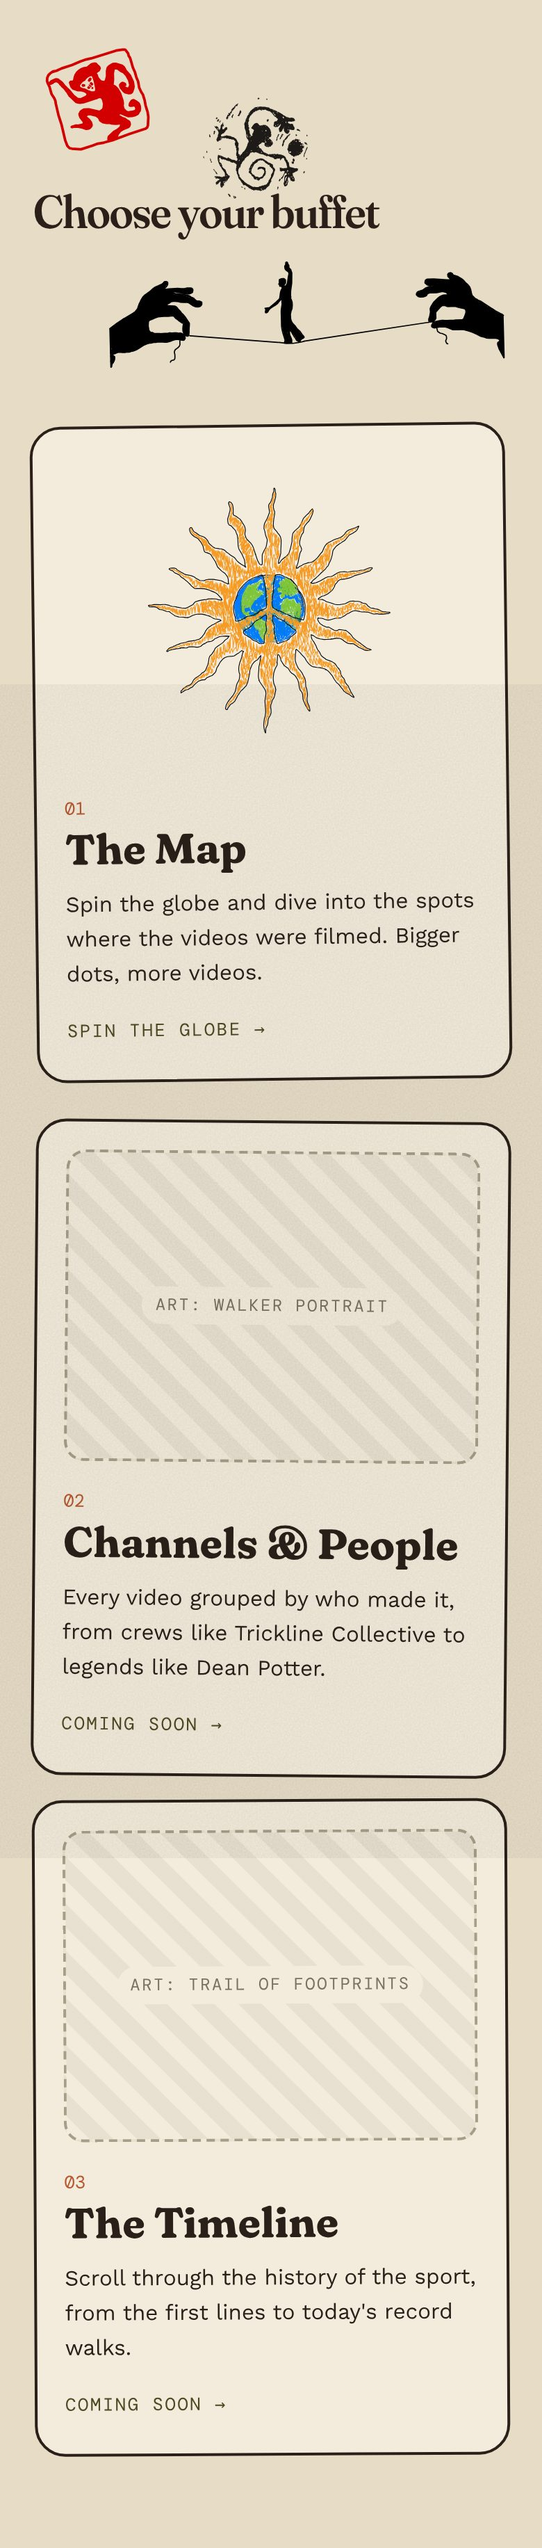
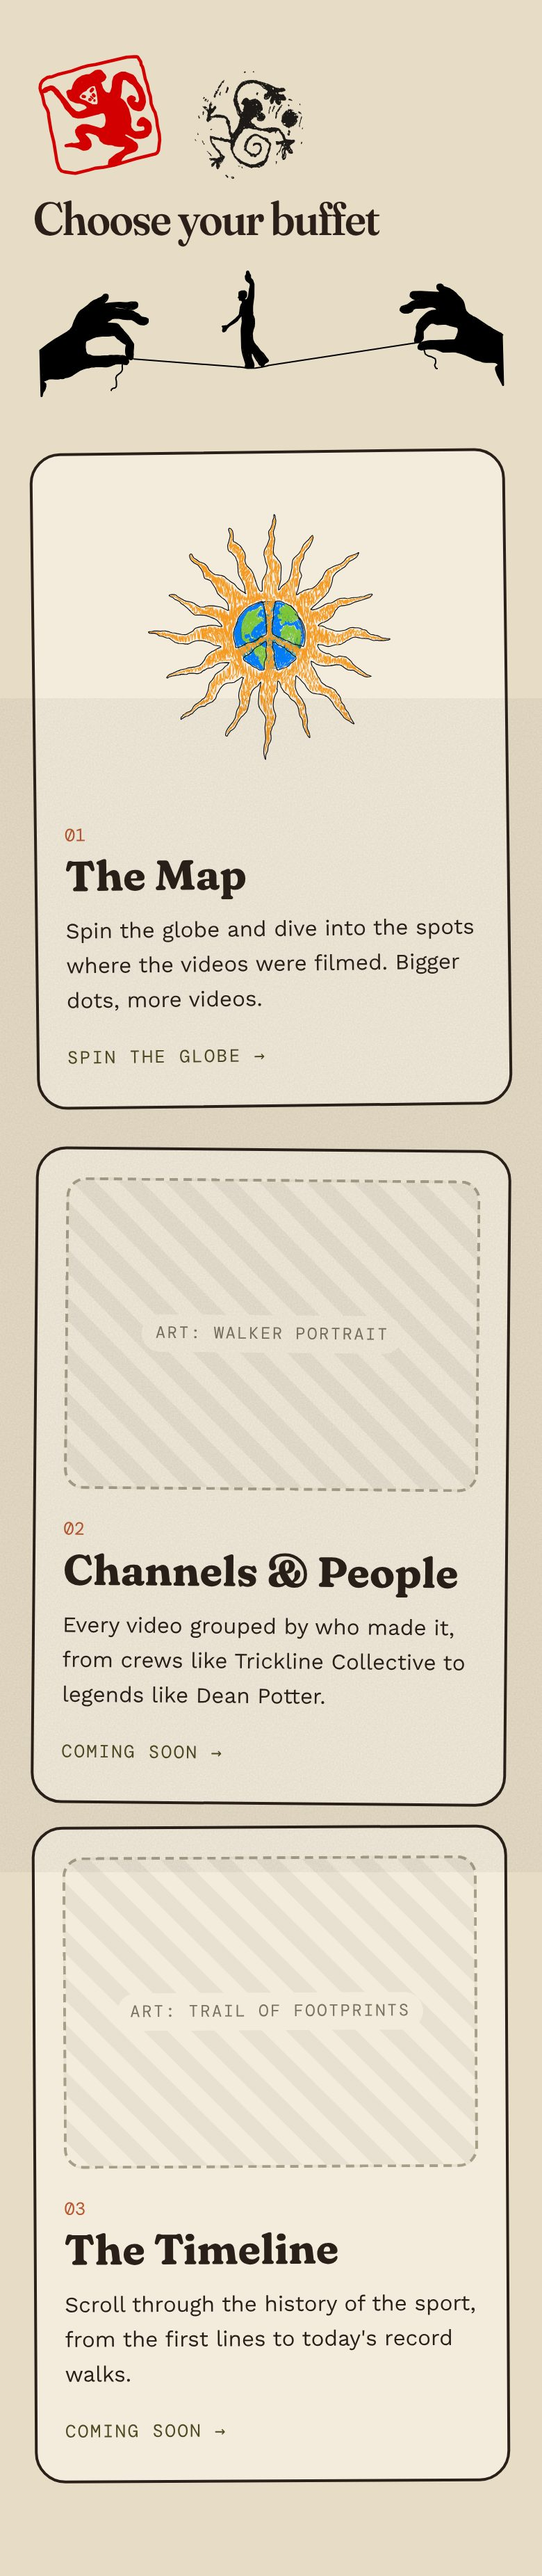
Smaller side-by-side critters, bigger hands beside the title; cache-bust stylesheet
Claude-Session: https://claude.ai/code/session_01ARv692gH35ZwWcuiyRn4Ae

diff --git a/style.css b/style.css
@@ -344,11 +344,11 @@ h2 {
 .explore-head { display: flex; align-items: flex-end; gap: clamp(1rem, 4vw, 3rem); }
 .explore-title { flex: none; }
 .explore-title h2 { margin: 0; }
-.tossed { position: relative; height: 5.5rem; margin-bottom: .4rem; }
-.tossed img { position: absolute; height: auto; }
-.tossed-monkey { width: 4.6rem; left: .6rem; top: -.3rem; transform: rotate(-17deg); }
-.tossed-lizard { width: 5.4rem; left: 7.3rem; top: 1.6rem; transform: rotate(28deg); }
-.explore-hands { flex: 1; min-width: 0; max-width: 34rem; height: auto; margin-bottom: -.6rem; transform: rotate(-1.5deg); }
+.tossed { display: flex; align-items: flex-end; gap: .9rem; margin: 0 0 .5rem .3rem; }
+.tossed img { width: 5.6rem; height: auto; }
+.tossed-monkey { transform: rotate(-13deg) translateY(-.35rem); }
+.tossed-lizard { transform: rotate(21deg) translate(.2rem, .3rem); }
+.explore-hands { flex: none; width: min(32rem, 100%); height: auto; margin-bottom: -.4rem; transform: rotate(-1.5deg); }
 
 /* A little wonk, so the cards look laid down by hand rather than snapped to a grid */
 .cards .explore-card:nth-child(1) { rotate: -.7deg; }
@@ -356,7 +356,7 @@ h2 {
 .cards .explore-card:nth-child(3) { rotate: -.3deg; translate: 0 -.15rem; }
 @media (max-width: 700px) {
   .explore-head { flex-direction: column; align-items: stretch; gap: 1rem; }
-  .explore-hands { align-self: flex-end; width: 85%; margin: 0; }
+  .explore-hands { align-self: flex-end; width: 100%; margin: 0; }
 }
 .cards {
   display: grid;

diff --git a/index.html b/index.html
@@ -9,7 +9,7 @@
   <link rel="preconnect" href="https://fonts.googleapis.com">
   <link rel="preconnect" href="https://fonts.gstatic.com" crossorigin>
   <link rel="stylesheet" href="https://fonts.googleapis.com/css2?family=DM+Mono:wght@400;500&family=Fraunces:ital,opsz,wght,SOFT@0,9..144,300..900,0..100;1,9..144,300..900,0..100&family=Work+Sans:wght@400;500;600&display=swap">
-  <link rel="stylesheet" href="style.css">
+  <link rel="stylesheet" href="style.css?v=2026-11-27b">
 </head>
 <body class="home">
   <a class="skip" href="#main">Skip to content</a>
@@ -103,12 +103,12 @@
           <div class="explore-title">
             <!-- Critters tossed on above the title: rotations and offsets are deliberately uneven -->
             <div class="tossed" aria-hidden="true">
-              <img class="tossed-monkey" src="images/icons/monkey.svg" alt="">
-              <img class="tossed-lizard" src="images/icons/lizard.svg" alt="">
+              <img class="tossed-monkey" src="images/icons/monkey.svg" alt="" width="90" height="88">
+              <img class="tossed-lizard" src="images/icons/lizard.svg" alt="" width="88" height="90">
             </div>
             <h2 id="explore-title">Choose your buffet</h2>
           </div>
-          <img class="explore-hands" src="images/icons/hands-highline.svg" alt="">
+          <img class="explore-hands" src="images/icons/hands-highline.svg" alt="" width="512" height="140">
         </div>
 
         <div class="cards">

diff --git a/map.html b/map.html
@@ -10,7 +10,7 @@
   <link rel="preconnect" href="https://fonts.gstatic.com" crossorigin>
   <link rel="stylesheet" href="https://fonts.googleapis.com/css2?family=DM+Mono:wght@400;500&family=Fraunces:ital,opsz,wght,SOFT@0,9..144,300..900,0..100;1,9..144,300..900,0..100&family=Work+Sans:wght@400;500;600&display=swap">
   <link rel="stylesheet" href="vendor/maplibre/maplibre-gl.css">
-  <link rel="stylesheet" href="style.css">
+  <link rel="stylesheet" href="style.css?v=2026-11-27b">
 </head>
 <body class="map-page">
   <a class="skip" href="#spot-panel">Skip to the list of spots</a>

diff --git a/spot.html b/spot.html
@@ -9,7 +9,7 @@
   <link rel="preconnect" href="https://fonts.googleapis.com">
   <link rel="preconnect" href="https://fonts.gstatic.com" crossorigin>
   <link rel="stylesheet" href="https://fonts.googleapis.com/css2?family=DM+Mono:wght@400;500&family=Fraunces:ital,opsz,wght,SOFT@0,9..144,300..900,0..100;1,9..144,300..900,0..100&family=Work+Sans:wght@400;500;600&display=swap">
-  <link rel="stylesheet" href="style.css">
+  <link rel="stylesheet" href="style.css?v=2026-11-27b">
 </head>
 <body class="spot-page">
   <a class="skip" href="#main">Skip to content</a>

diff --git a/channels.html b/channels.html
@@ -9,7 +9,7 @@
   <link rel="preconnect" href="https://fonts.googleapis.com">
   <link rel="preconnect" href="https://fonts.gstatic.com" crossorigin>
   <link rel="stylesheet" href="https://fonts.googleapis.com/css2?family=DM+Mono:wght@400;500&family=Fraunces:ital,opsz,wght,SOFT@0,9..144,300..900,0..100;1,9..144,300..900,0..100&family=Work+Sans:wght@400;500;600&display=swap">
-  <link rel="stylesheet" href="style.css">
+  <link rel="stylesheet" href="style.css?v=2026-11-27b">
 </head>
 <body>
   <a class="skip" href="#main">Skip to content</a>

diff --git a/icons.html b/icons.html
@@ -9,7 +9,7 @@
   <link rel="preconnect" href="https://fonts.googleapis.com">
   <link rel="preconnect" href="https://fonts.gstatic.com" crossorigin>
   <link rel="stylesheet" href="https://fonts.googleapis.com/css2?family=DM+Mono:wght@400;500&family=Fraunces:ital,opsz,wght,SOFT@0,9..144,300..900,0..100;1,9..144,300..900,0..100&family=Work+Sans:wght@400;500;600&display=swap">
-  <link rel="stylesheet" href="style.css">
+  <link rel="stylesheet" href="style.css?v=2026-11-27b">
 </head>
 <body>
   <a class="skip" href="#main">Skip to content</a>

diff --git a/timeline.html b/timeline.html
@@ -9,7 +9,7 @@
   <link rel="preconnect" href="https://fonts.googleapis.com">
   <link rel="preconnect" href="https://fonts.gstatic.com" crossorigin>
   <link rel="stylesheet" href="https://fonts.googleapis.com/css2?family=DM+Mono:wght@400;500&family=Fraunces:ital,opsz,wght,SOFT@0,9..144,300..900,0..100;1,9..144,300..900,0..100&family=Work+Sans:wght@400;500;600&display=swap">
-  <link rel="stylesheet" href="style.css">
+  <link rel="stylesheet" href="style.css?v=2026-11-27b">
 </head>
 <body>
   <a class="skip" href="#main">Skip to content</a>
